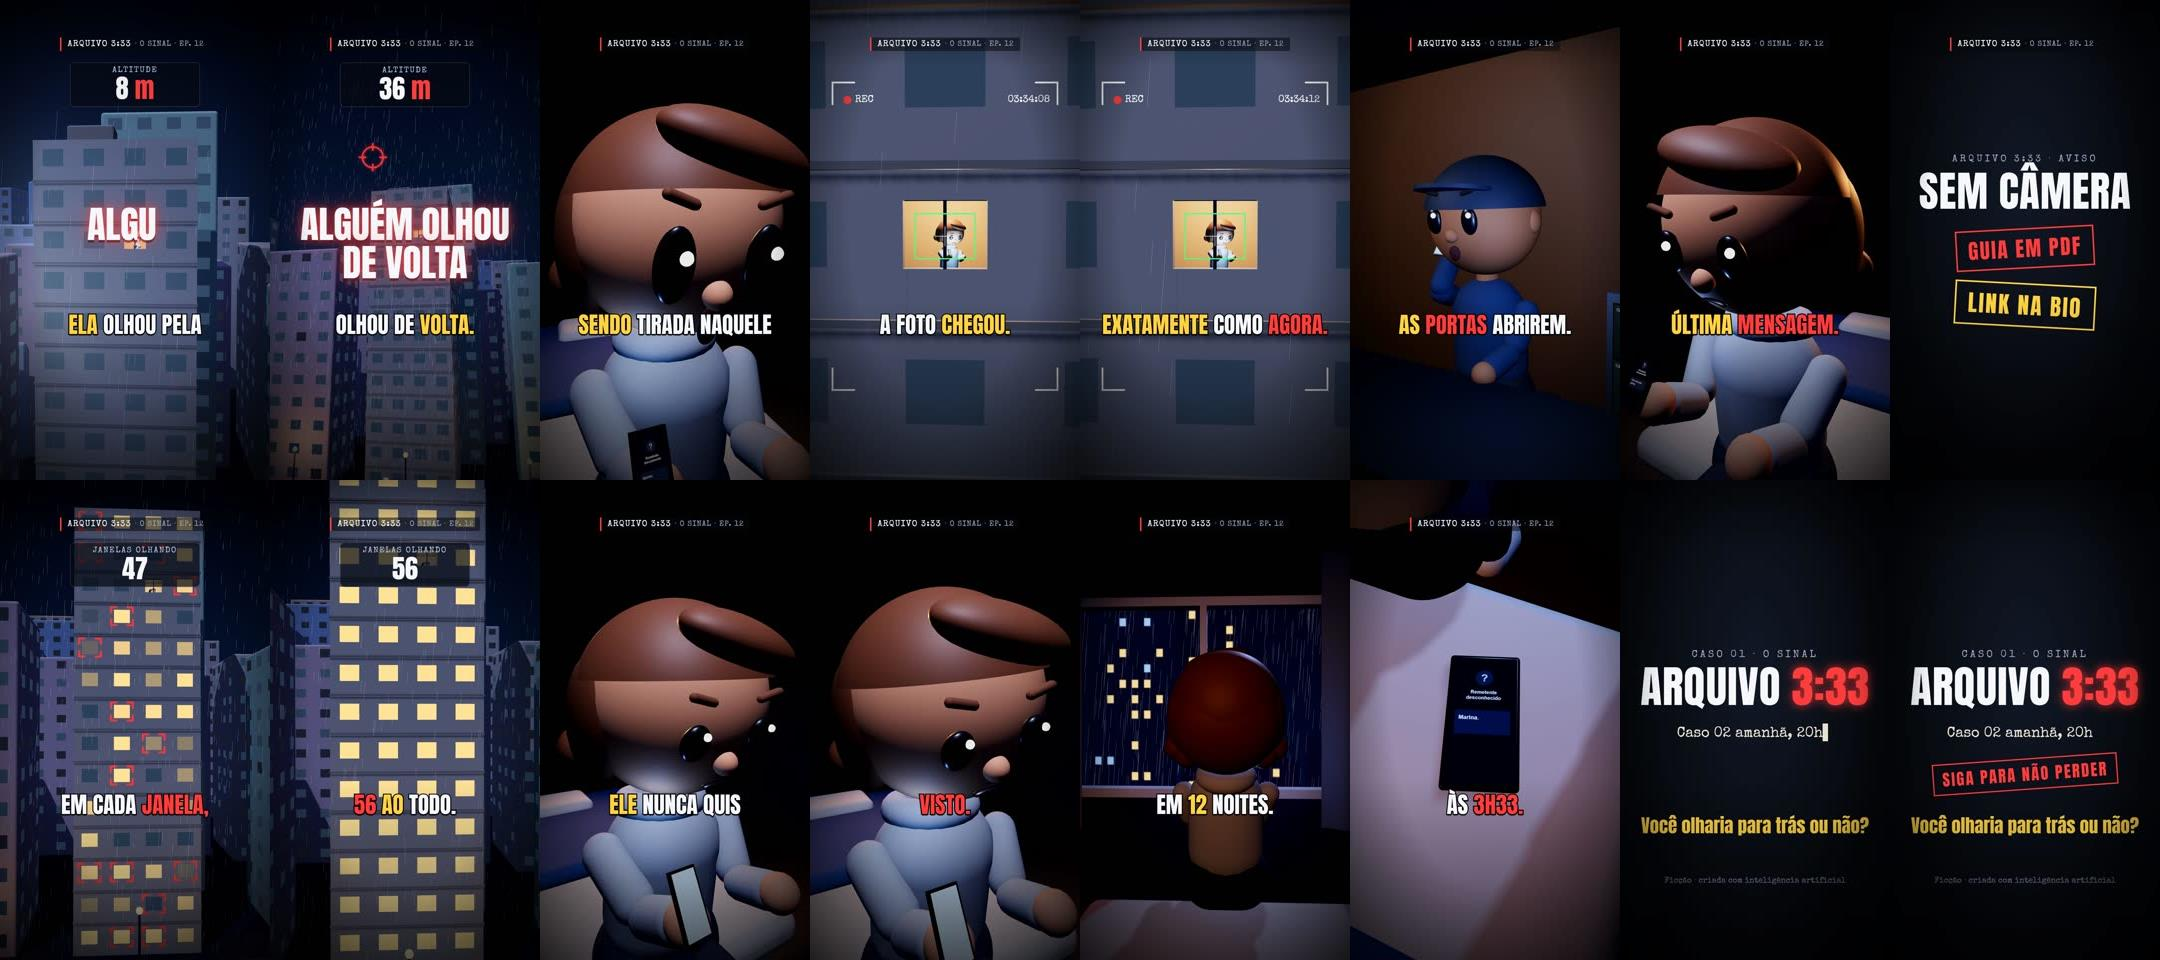
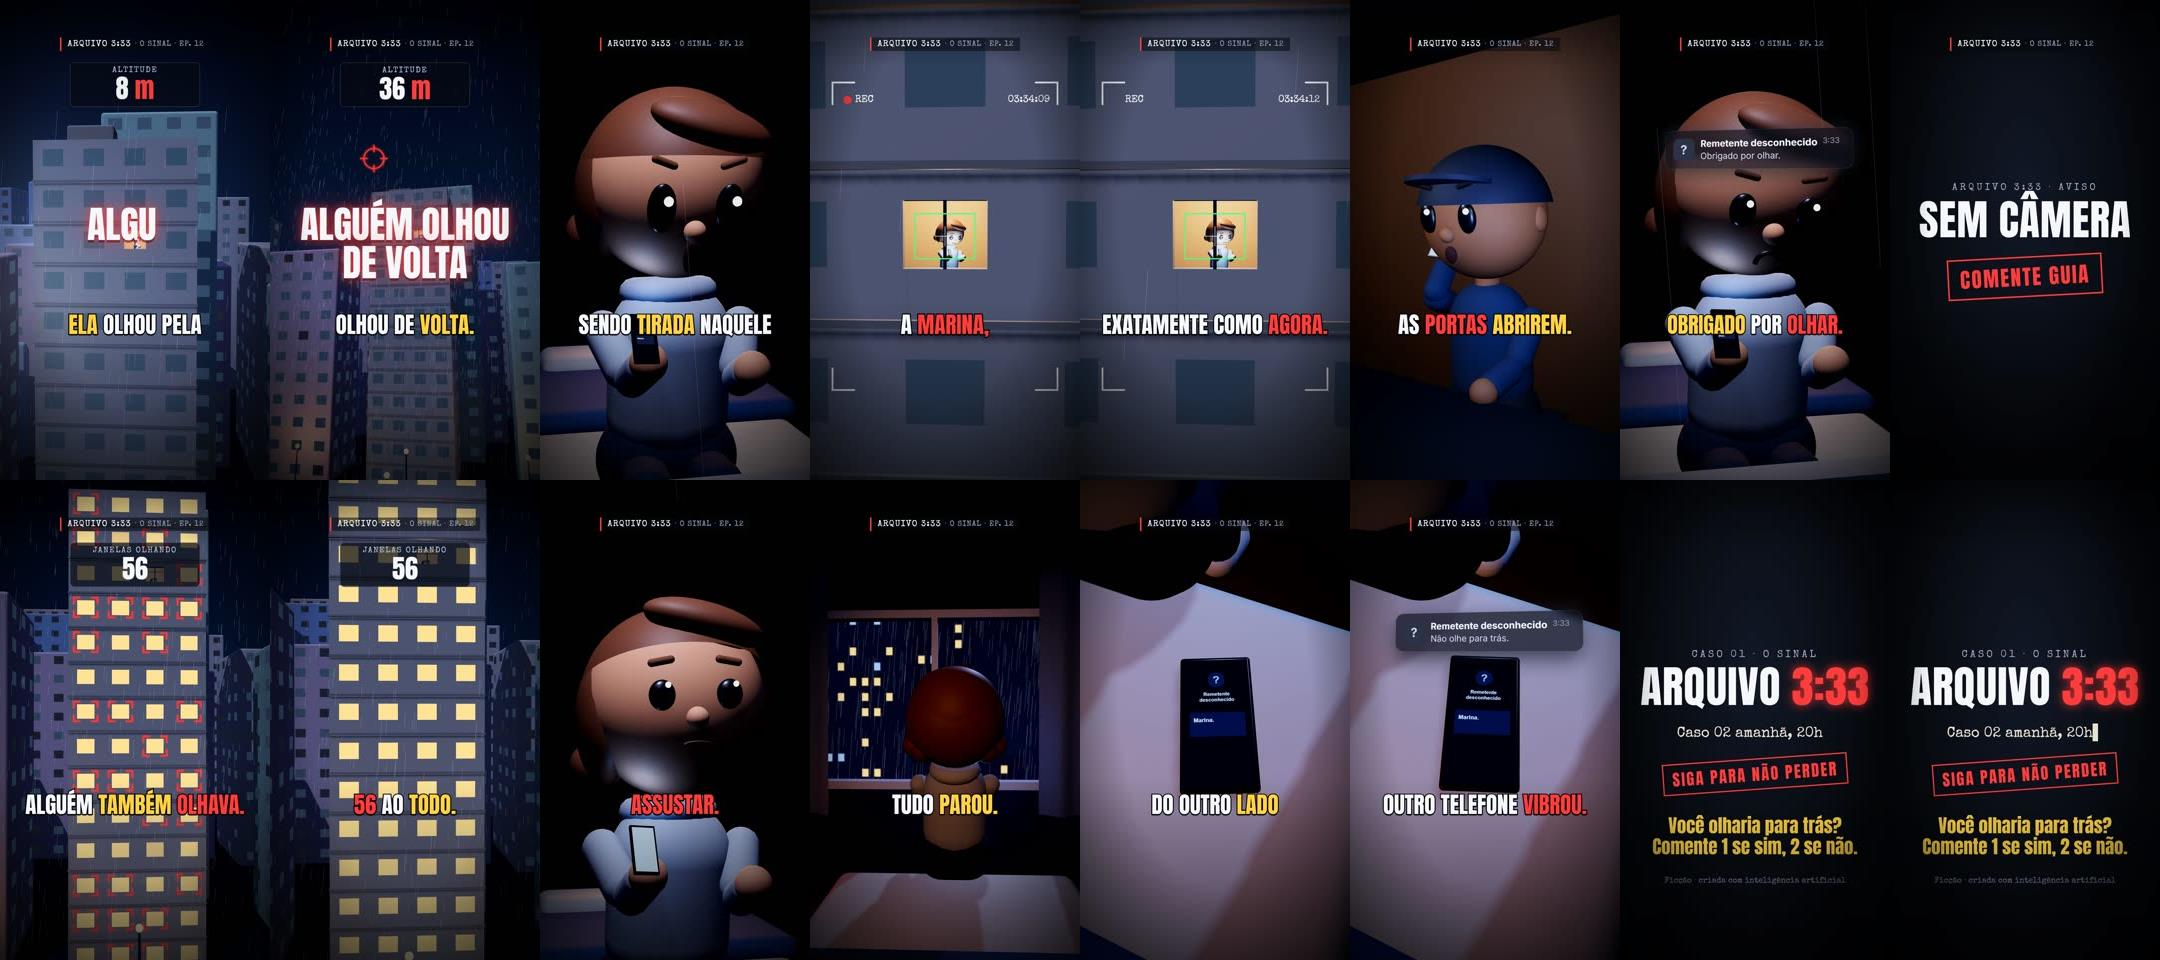
Arquivo 3:33: ep. 12 com closes de meio corpo, expressoes variadas, Comente GUIA e pergunta com voto

diff --git a/arquivo-333/src/motor3d/planos.ts b/arquivo-333/src/motor3d/planos.ts
@@ -364,10 +364,16 @@ export const PLANOS: Record<string, Plano> = {
   },
   rosto_mensagem: (s, dur, m) => {
     const p = suave(s / dur);
-    marinaNoQuarto(m, s, "sentada_celular", { olhos: 1.1, sobrancelha: 0.9, cabeca: [14, 0, -6 * p] }); telaCom(m, "mensagem");
+    marinaNoQuarto(m, s, "sentada_celular", { olhos: 0.95, sobrancelha: 0.6, boca: "triste", cabeca: [14, 0, -6 * p] }); telaCom(m, "mensagem");
     m.quarto.atualizar(s); luzClose(m);
-    // câmera DENTRO do quarto (z > -2,38): do lado de fora, a divisória do meio da janela (x = 0) tampava metade da tela
-    const c = cabeca(m); return { cena: "quarto", pos: mix([c[0] - 0.6, c[1] + 0.05, c[2] - 0.92], [c[0] - 0.48, c[1] + 0.05, c[2] - 0.88], p), alvo: [c[0], c[1] - 0.06, c[2]], fov: 72 };
+    return { cena: "quarto", ...camMeio(m, p), fov: 32 };
+  },
+  /** Compreensão e determinação (queixo erguido, sobrancelha firme), em meio corpo, de leve contra-plongée. */
+  rosto_alivio: (s, dur, m) => {
+    const p = suave(s / dur);
+    marinaNoQuarto(m, s, "sentada_celular", { olhos: 0.8, sobrancelha: -0.5, boca: "neutra", cabeca: [-4, 0, 2] }); telaCom(m, "luz");
+    m.quarto.atualizar(s); luzClose(m);
+    return { cena: "quarto", ...camMeio(m, p, 1, 0.18), fov: 32 };
   },
   ombro_celular: (s, dur, m) => {
     const p = suave(s / dur);
